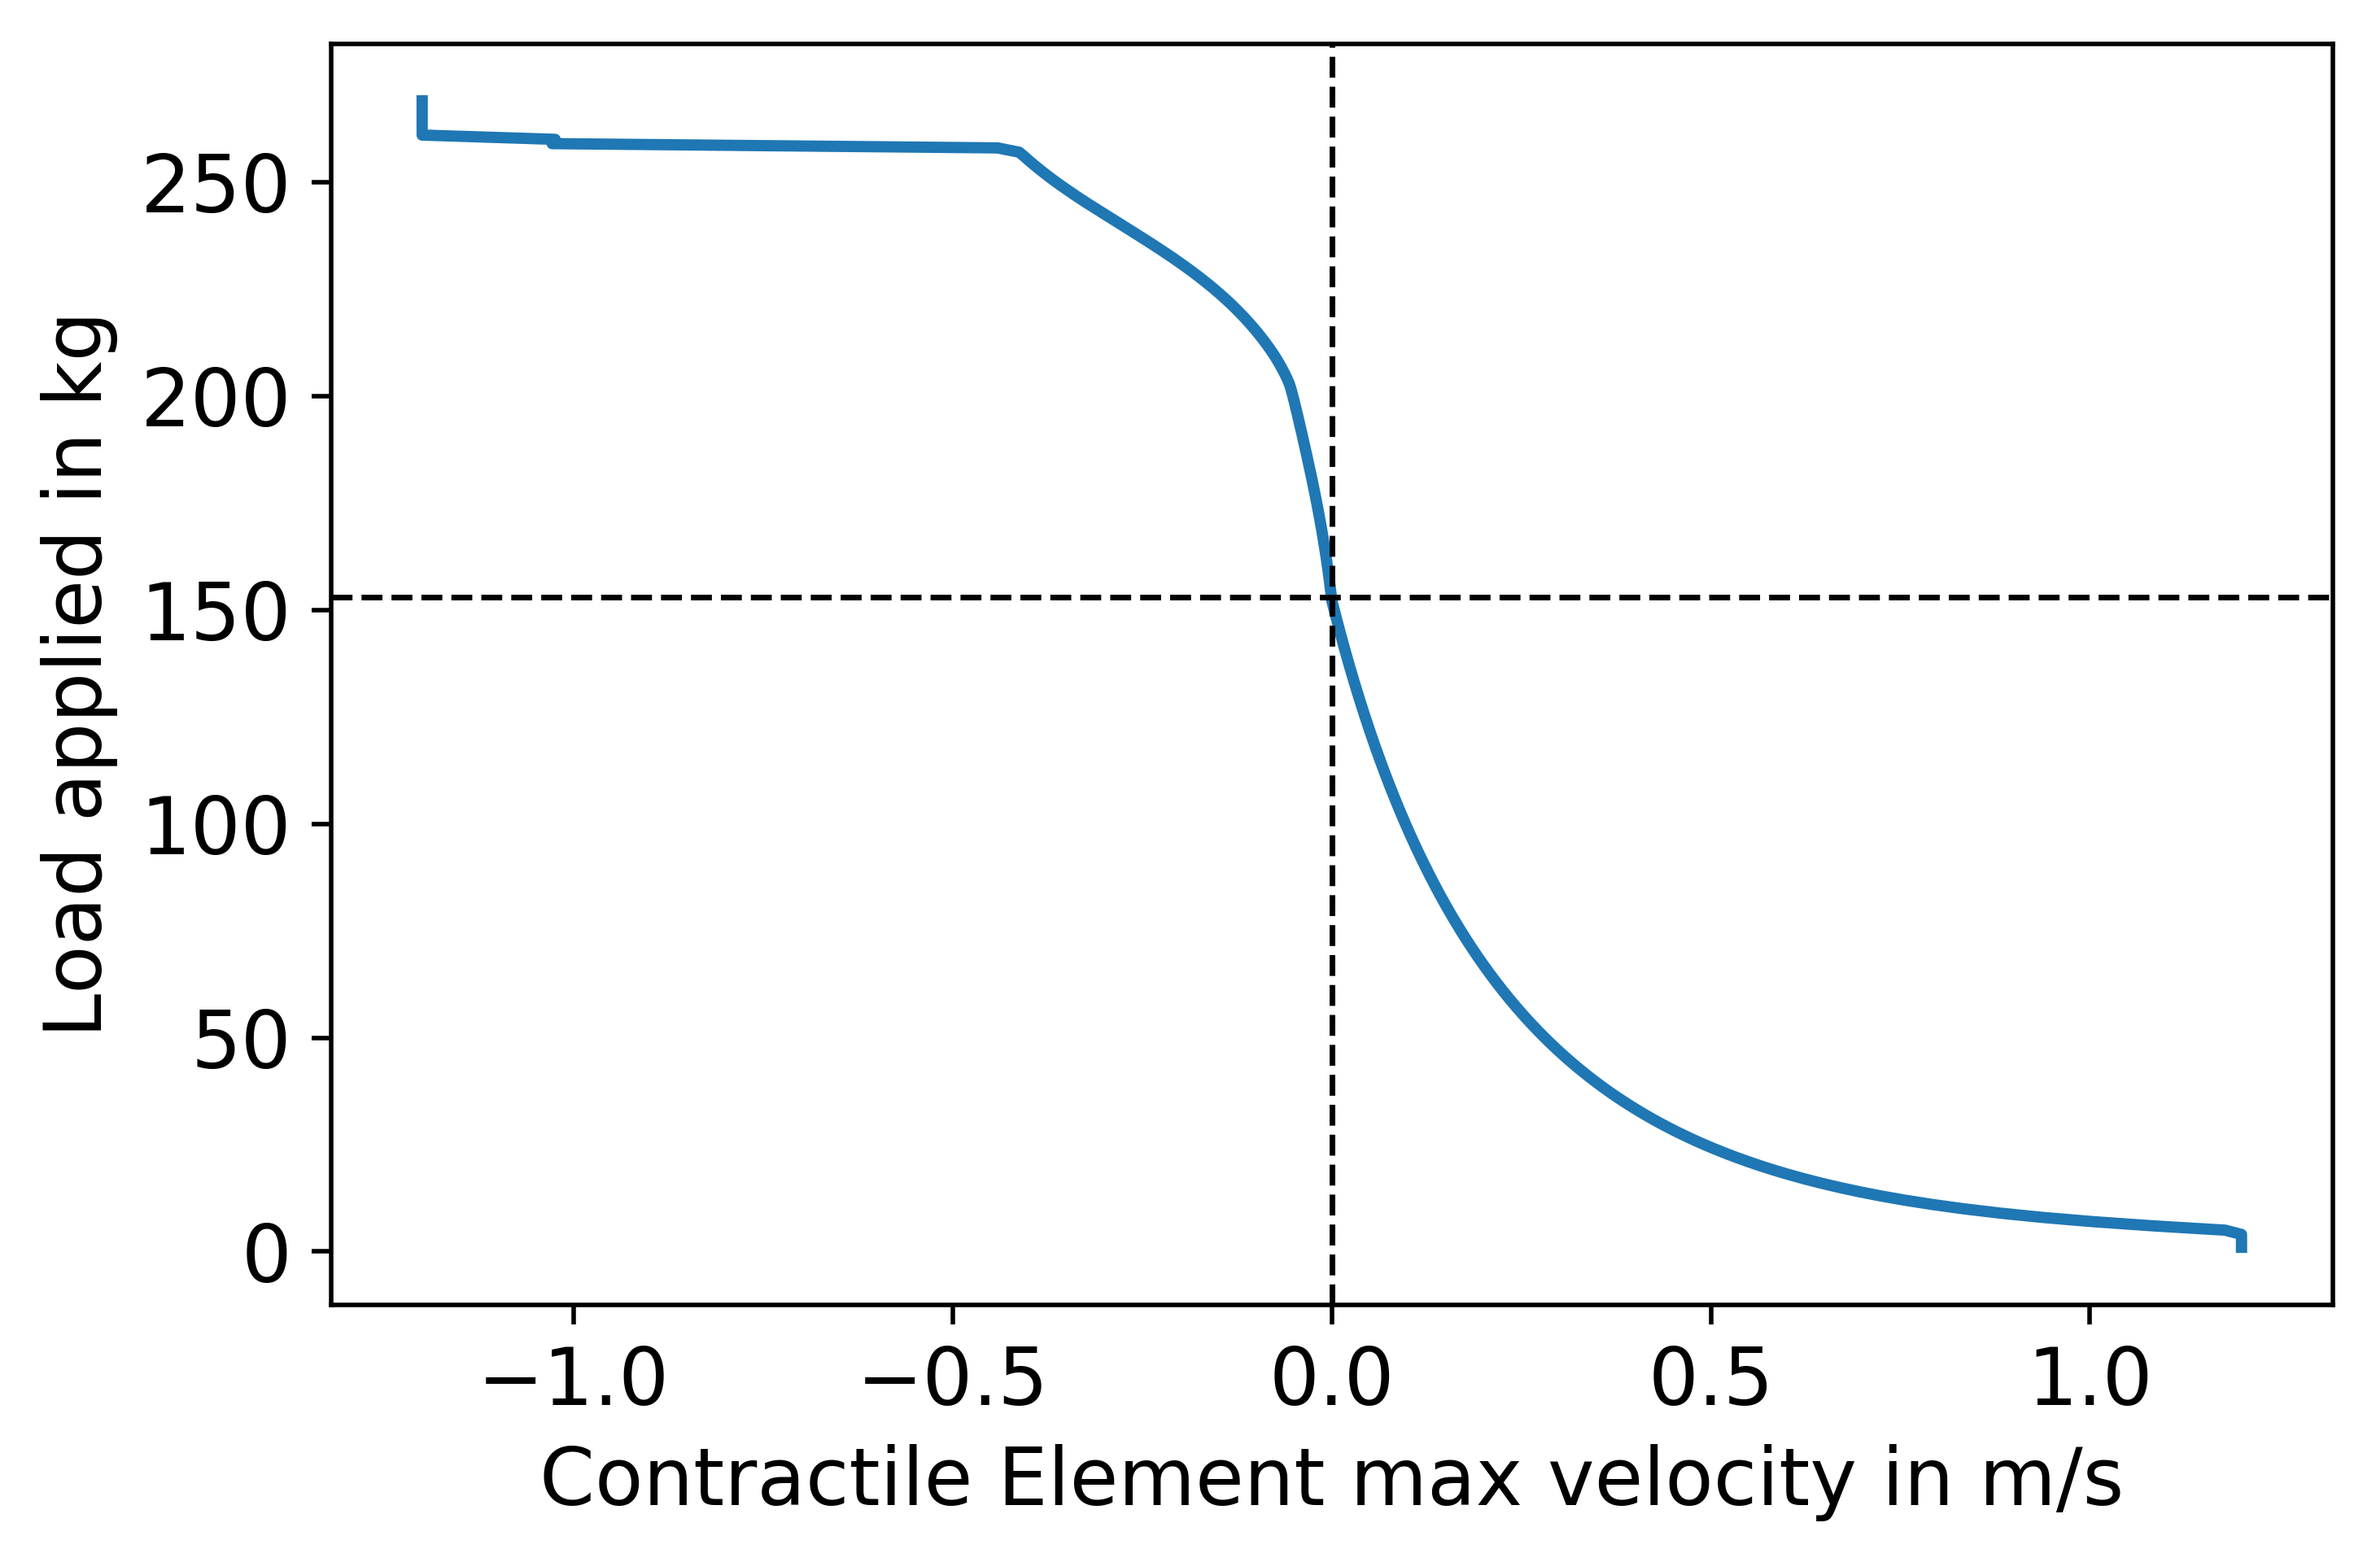
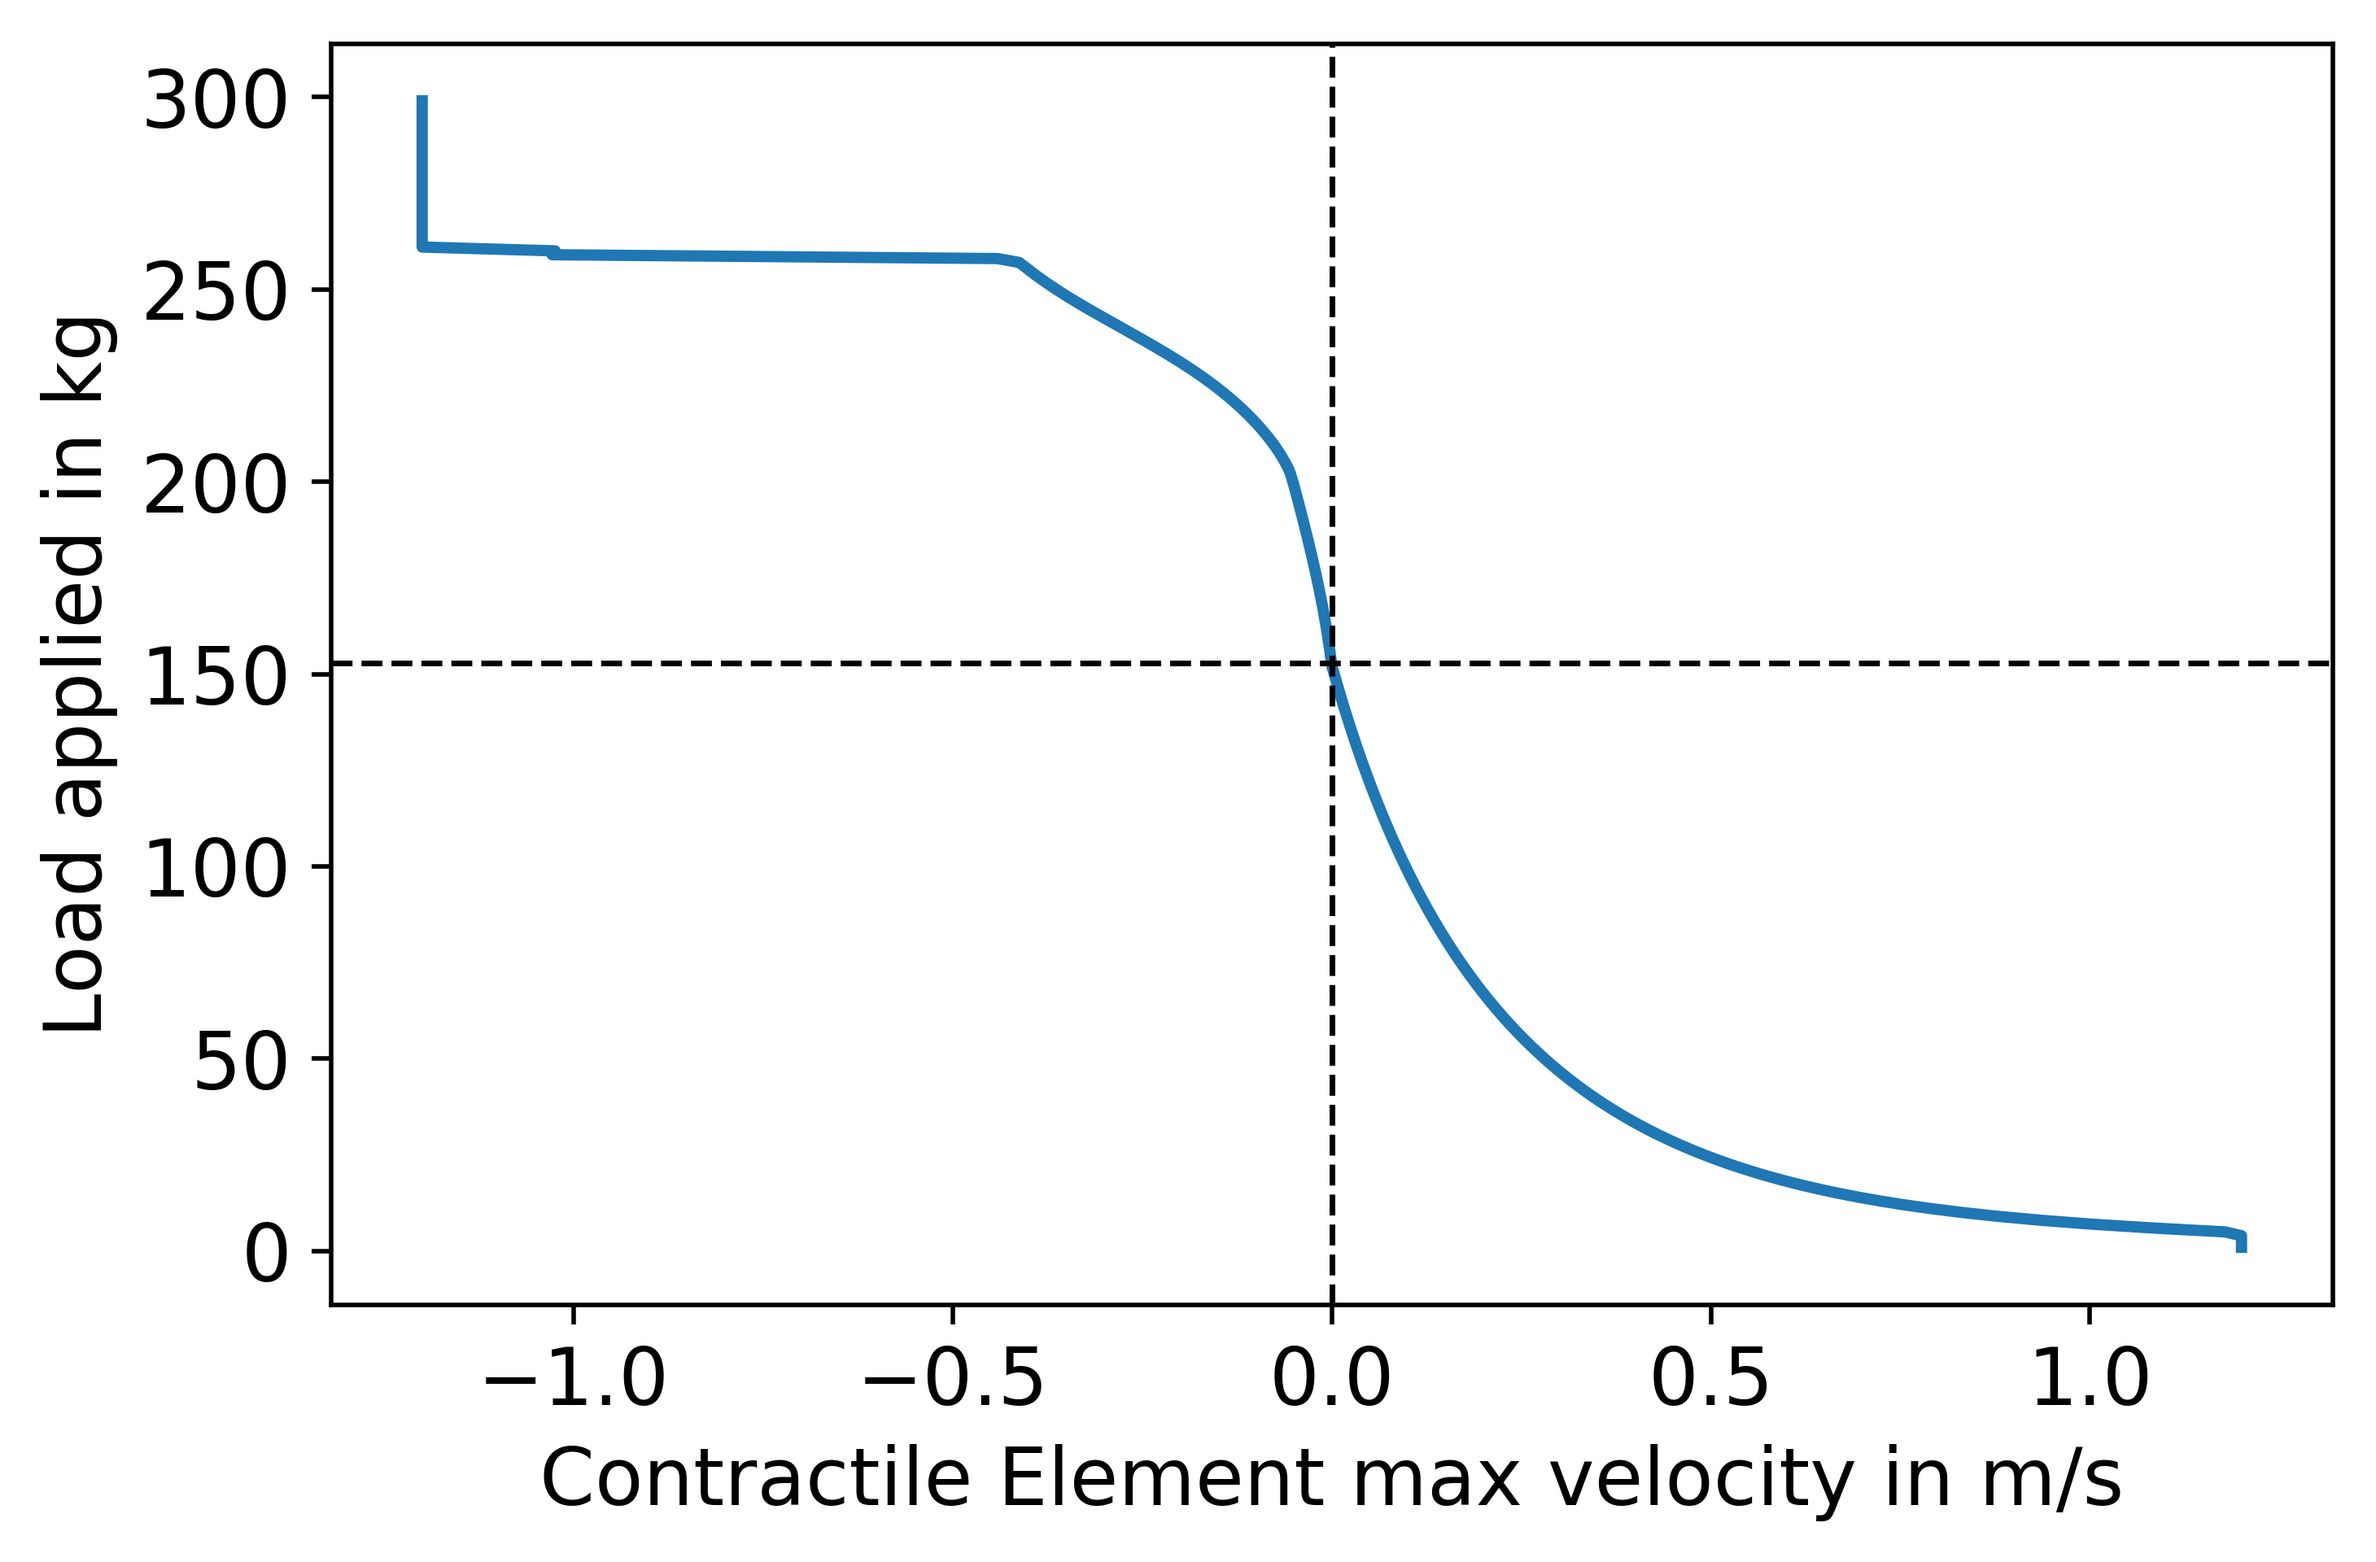
added figure for 2f

diff --git a/Lab4/Python/exercise2.py b/Lab4/Python/exercise2.py
@@ -339,7 +339,7 @@ def exercise2b():
     muscle = Muscle.Muscle(my_muscle_parameters)
     
     #Question 2d
-    my_loads = np.arange(1., 270, 1)
+    my_loads = np.arange(1., 300, 1)
     activation = 1.0
     CE_velocity = isotonic_contraction(muscle, activation, load=my_loads, 
                                        muscle_parameters=my_muscle_parameters, 
@@ -356,15 +356,20 @@ def exercise2b():
     plt.show()      
     
     #Question 2f
-    activation_2 = 0.5
-    my_loads_2 = np.arange(1., 165, 1)
+    activation_2 = 0.8
+    my_loads_2 = np.arange(1., 250, 1)
     CE_velocity_2 = isotonic_contraction(muscle, activation_2, load=my_loads_2, 
+                                       muscle_parameters=my_muscle_parameters, 
+                                       mass_parameters=my_mass_parameters)    
+    activation_3 = 0.5
+    my_loads_3 = np.arange(1., 165, 1)
+    CE_velocity_3 = isotonic_contraction(muscle, activation_3, load=my_loads_3, 
                                        muscle_parameters=my_muscle_parameters, 
                                        mass_parameters=my_mass_parameters)
     
-    activation_3 = 0.1
-    my_loads_3 = np.arange(1., 70, 1)
-    CE_velocity_3 = isotonic_contraction(muscle, activation_3, load=my_loads_3, 
+    activation_4 = 0.2
+    my_loads_4 = np.arange(1., 80, 1)
+    CE_velocity_4 = isotonic_contraction(muscle, activation_4, load=my_loads_4, 
                                        muscle_parameters=my_muscle_parameters, 
                                        mass_parameters=my_mass_parameters)
 
@@ -372,13 +377,30 @@ def exercise2b():
     plt.plot(CE_velocity,my_loads)
     plt.plot(CE_velocity_2,my_loads_2)
     plt.plot(CE_velocity_3,my_loads_3)
+    plt.plot(CE_velocity_4,my_loads_4)
     plt.legend(['For activation = {}'.format(activation),
                 'For activation = {}'.format(activation_2),
-                'For activation = {}'.format(activation_3)])
+                'For activation = {}'.format(activation_3),
+                'For activation = {}'.format(activation_4)])
     plt.xlabel('Contractile Element max velocity in m/s')
     plt.ylabel('Load applied in kg')
     plt.savefig('2_f.png')
     plt.show()  
+    
+    plt.figure()
+    plt.plot(CE_velocity,my_loads/activation)
+    plt.plot(CE_velocity_2,my_loads_2/activation_2)
+    plt.plot(CE_velocity_3,my_loads_3/activation_3)
+    plt.plot(CE_velocity_4,my_loads_4/activation_4)
+    plt.legend(['For activation = {}'.format(activation),
+                'For activation = {}'.format(activation_2),
+                'For activation = {}'.format(activation_3),
+                'For activation = {}'.format(activation_4)])
+    plt.xlabel('Contractile Element max velocity in m/s')
+    plt.ylabel('Load applied in kg / Activation')
+    plt.savefig('2_f_2.png')
+    plt.show()
+
 
 
 def exercise2():
